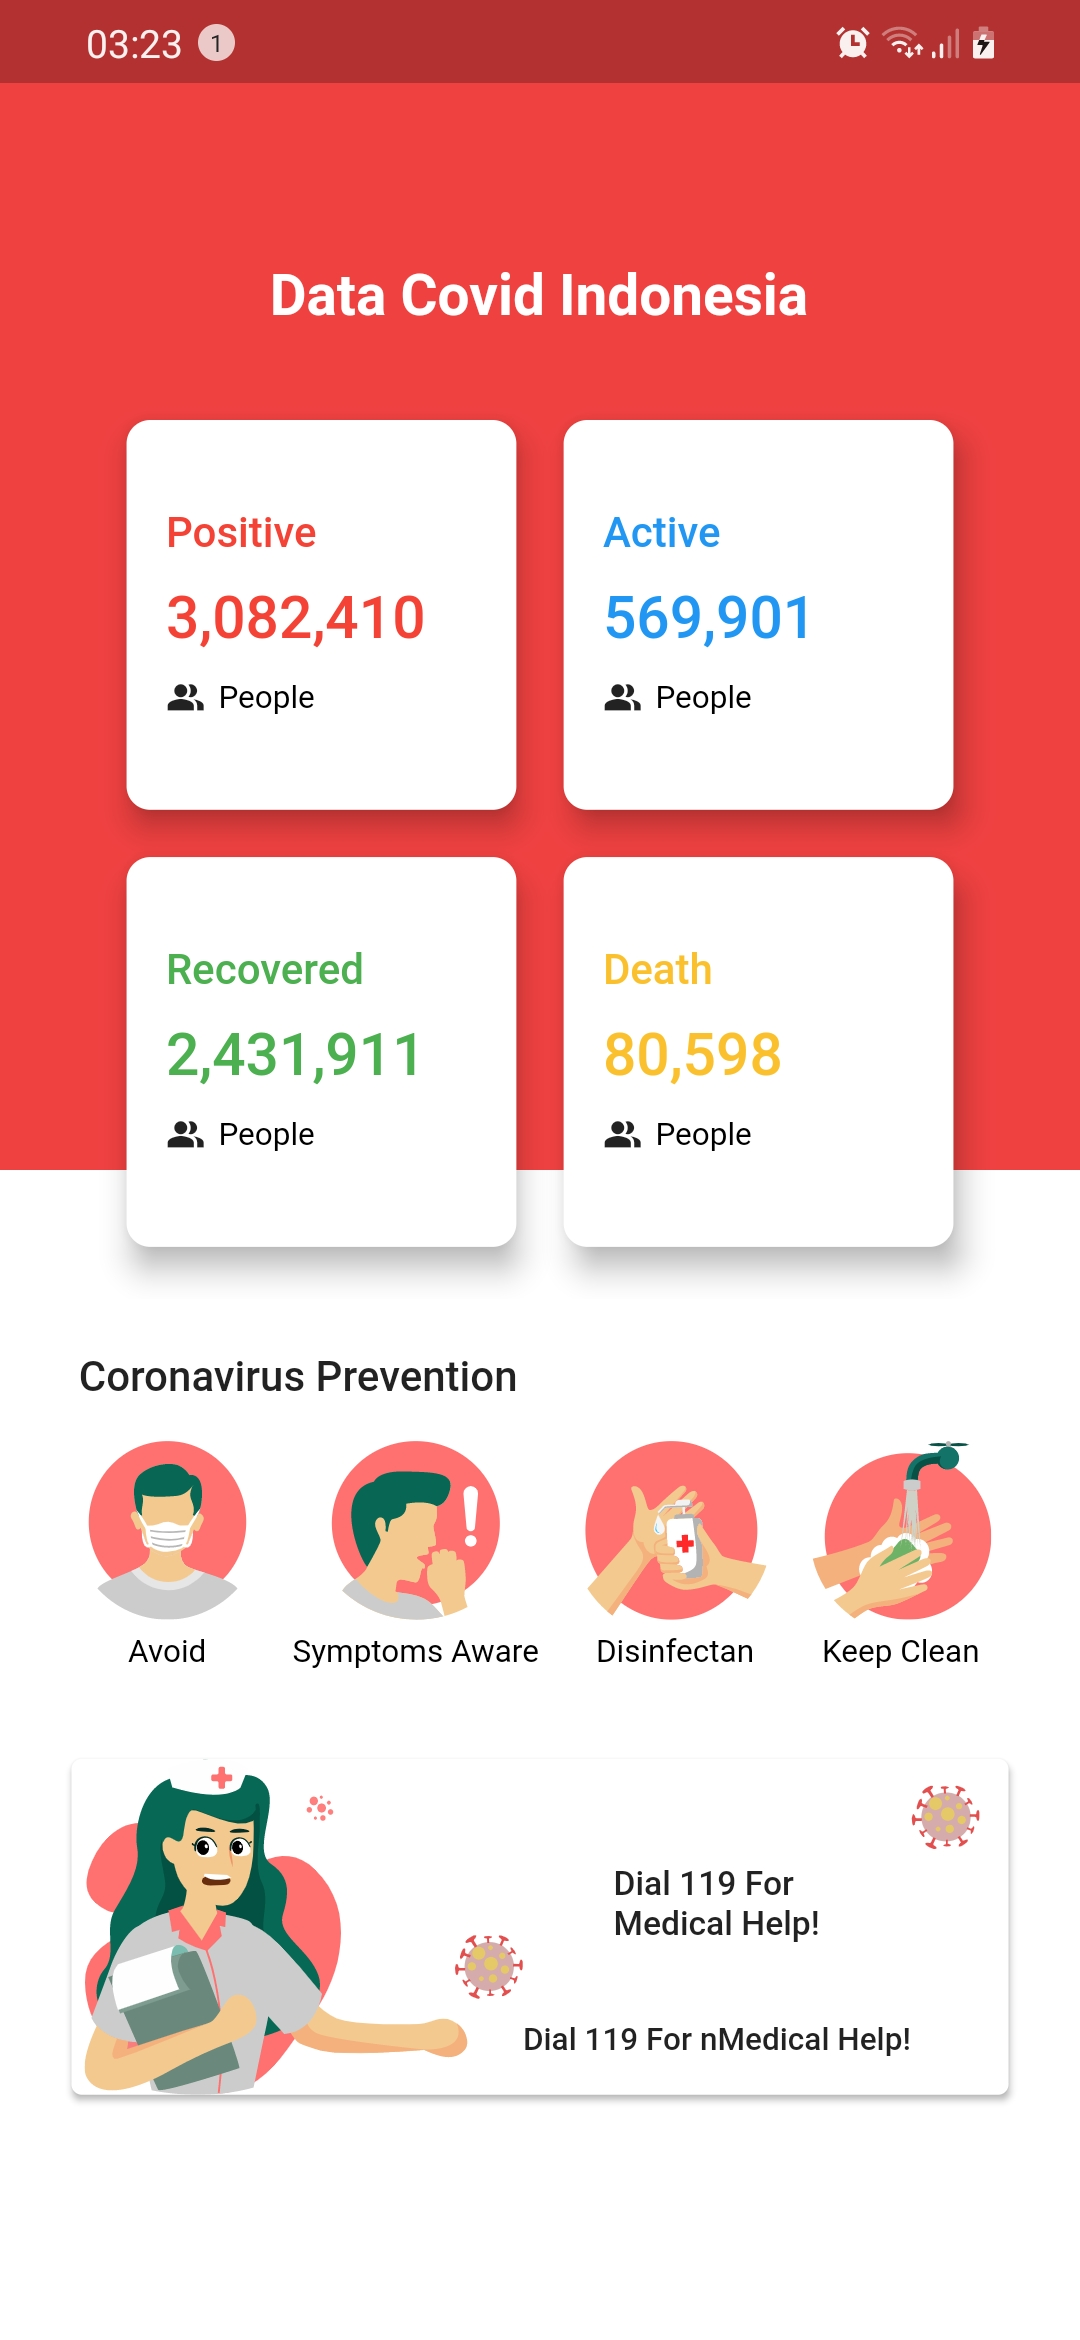
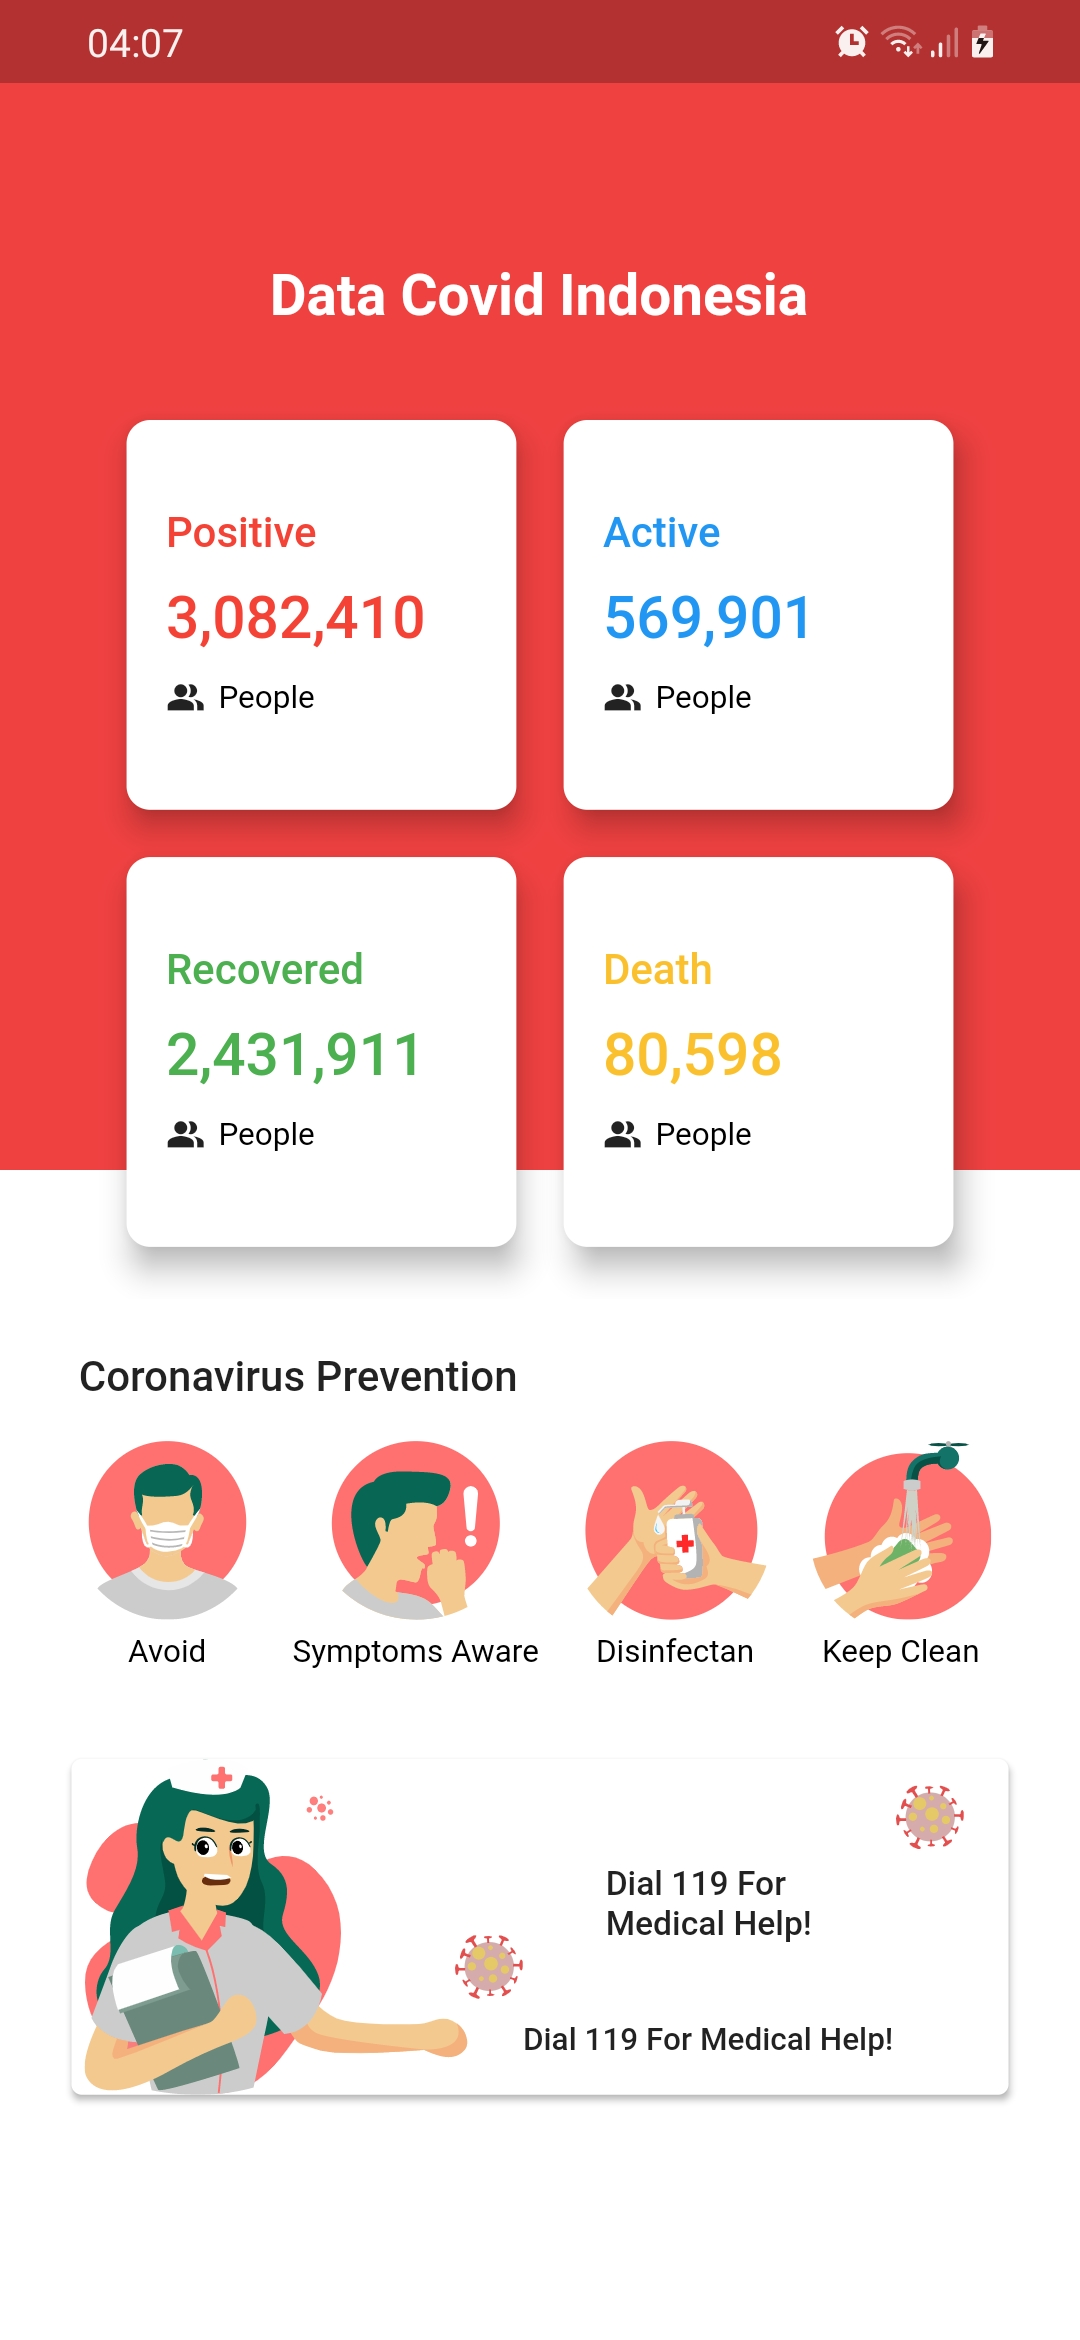
update typo & name apk

diff --git a/lib/widgets/medical_help.dart b/lib/widgets/medical_help.dart
@@ -47,7 +47,7 @@ class MedicalHelp extends StatelessWidget {
                   Row(
                     children: [
                       Text(
-                        "Dial 119 For nMedical Help!",
+                        "Dial 119 For Medical Help!",
                         style: TextStyle(
                           fontSize: 15,
                           fontWeight: FontWeight.w500,
